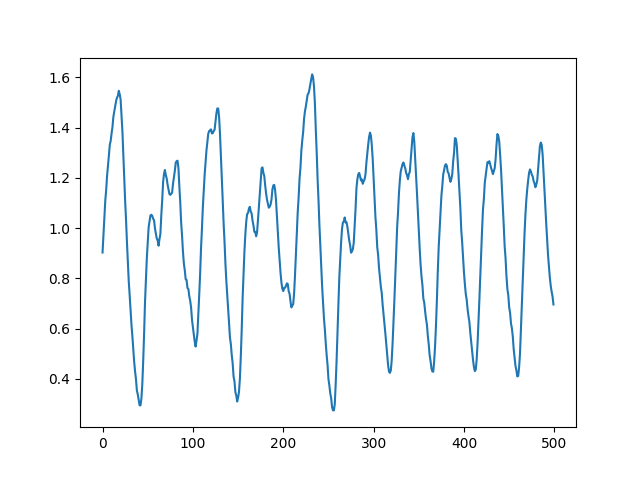
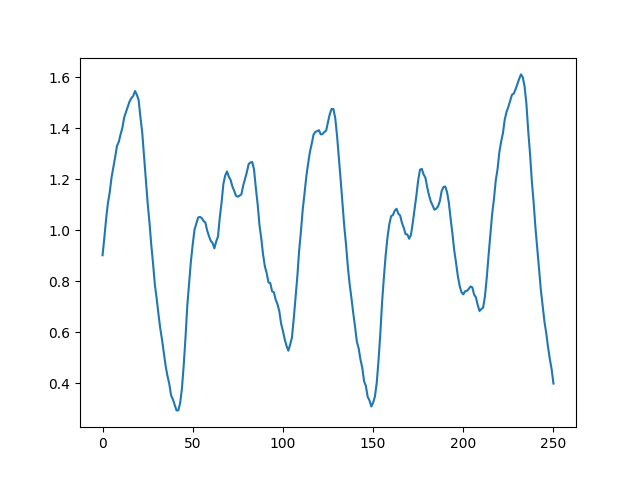
Ajout de plots normalisés et autres ameliorations

diff --git a/custom/forceNetworkMulti.py b/custom/forceNetworkMulti.py
@@ -55,6 +55,7 @@ class forceNetworkMulti(Network):
         min = kwargs.get("min", {})
         max = kwargs.get("max", {})
         k = kwargs.get("k",  {})
+        nbInput = kwargs.get("nbInput", {})
         print(k)
         plotValues = []
 
@@ -65,7 +66,7 @@ class forceNetworkMulti(Network):
         eta = 0.2
         maxWOut = max/(0.1*nbNeur)
         minWOut = min/(0.1*nbNeur)
-        traceDecay = 5
+        traceDecay = 4
         wOut = torch.ones(nbNeur) 
         #print(inputs["F"])
          
@@ -223,7 +224,6 @@ class forceNetworkMulti(Network):
                     else: 
                         traces[t][i] = np.exp((-1 *((t - baseTrace[i])) / traceDecay))
                         if s.item() == True:
-                            print("incr")
                             baseTrace[i] = t
                             traces[t][i] = traces[t][i]  + incr
                             #traces[t][i] =  incr
@@ -245,24 +245,24 @@ class forceNetworkMulti(Network):
             error = float((decoData[t] - pred ))#torch.mean(wOut)
             totalError += (error ** 2)
             tmpT += 1
-            print("Prévision = " + str(pred)) 
-            print("MSE = " + str(error ** 2))
-            print("Value = " + str(decoData[t]))
-            print("Moyenne Error = " + str(totalError/(tmpT)))
+            #print("Prévision = " + str(pred)) 
+            #print("MSE = " + str(error ** 2))
+            #print("Value = " + str(decoData[t]))
+            #print("Moyenne Error = " + str(totalError/(tmpT)))
             #print(traces[t])
             if t != 0:
                wOut = wOut - error *  QT @ torch.t(torch.Tensor(traces[t]))
             if t % 1000 == 0:
                 totalError = 0
                 tmpT = 0
-            print(inputs["F"].shape)
+            #print(inputs["F"].shape)
             for i in range(k):
                 if t - i < 0:
-                    tmp = torch.zeros(30)
+                    tmp = torch.zeros(nbInput)
                 else:
-                    tmp = torch.Tensor(encodingOneValue(decoData[t-i], max, min, 30, 1))
-                for j in range(30):
-                    inputs["F"][t][0][j + i * 30] = tmp[j]
+                    tmp = torch.Tensor(encodingOneValue(decoData[t-i], max, min, nbInput, 1))
+                for j in range(nbInput):
+                    inputs["F"][t][0][j + i * nbInput] = tmp[j]
 
         # Re-normalize connections.
         for c in self.connections:
@@ -279,8 +279,12 @@ class forceNetworkMulti(Network):
         ax.plot(t, s)
         fig.savefig("plotDeco.png")
         
-        s = torch.nn.functional.normalize(torch.Tensor(plotValues), p=2, dim = 0)
-        s2 = torch.nn.functional.normalize(torch.Tensor(decoData[:time]), p=2, dim = 0)
+        norm = np.linalg.norm(plotValues)
+        norm2 = np.linalg.norm(decoData[:time])
+        s = plotValues/norm
+        s2 = decoData[:time]/norm2
+        #s = torch.nn.functional.normalize(torch.Tensor(plotValues), p=2, dim = 0)
+        #s2 = torch.nn.functional.normalize(torch.Tensor(decoData[:time]), p=2, dim = 0)
         fig, ax = plt.subplots()
         ax.plot(t, s2)
         ax.plot(t, s)

diff --git a/testShapeMultiInput.py b/testShapeMultiInput.py
@@ -14,16 +14,18 @@ import pickle
 mfFeed = 2
 mfInp = 0.5
 k = 10
-time = 500
+time = 251
+nbInput = 30
+
 max = 2
 min = 0
 
 network = forceNetworkMulti(dt=1)  # Instantiates network.
 
-X = nodes.Input(30, traces=True)  # Input layer.
-Y = nodes.LIFNodes(12000, traces=True,  tc_decay = 100, tc_trace = 5)  # Layer of LIF neurons. 
-Z = nodes.LIFNodes(9800)  # Layer of LIF neurons.
-F = nodes.Input(k * 30,  traces=True)  # Input layer.
+X = nodes.Input(nbInput, traces=True)  # Input layer.
+Y = nodes.LIFNodes(6000, traces=True,  tc_decay = 100, tc_trace = 5)  # Layer of LIF neurons. 
+Z = nodes.LIFNodes(4800)  # Layer of LIF neurons.
+F = nodes.Input(k * nbInput,  traces=True)  # Input layer.
 
 
 tabTensor = torch.full((X.n, Y.n), 0.01)
@@ -38,9 +40,9 @@ C6 = topology.Connection(source=F, target=Y, w=wFeed)  # Connection from X to Y.
 tabTensor = torch.full((Y.n, Y.n), 0.01)
 
 C2 = topology.Connection(source=Y, target=Y, w=torch.bernoulli(tabTensor)* torch.rand((Y.n, Y.n)))  # Connection from X to Y.
-tabTensor = torch.full((Y.n, Z.n), 0.01)
+tabTensor = torch.full((Y.n, Z.n), 0.1)
 C3 = topology.Connection(source=Y, target=Z, w=torch.bernoulli(tabTensor)* torch.rand((Y.n, Z.n)))
-tabTensor = torch.full((Z.n, Y.n), 0.01)
+tabTensor = torch.full((Z.n, Y.n), 0.2)
 C4 = topology.Connection(source=Z, target=Y, w= -torch.bernoulli(tabTensor) * torch.rand((Z.n, Y.n))) 
 tabTensor = torch.full((Z.n, Z.n), 0.01)
 C5 = topology.Connection(source=Z, target=Z, w= -  torch.bernoulli(tabTensor) * torch.rand((Z.n, Z.n)))  # Connection from X to Y.
@@ -97,11 +99,11 @@ for i in range(time):
 data = torch.Tensor(data)
 print(len(data))
 
-void = torch.zeros(time , k*30)
+void = torch.zeros(time , k*nbInput)
 print(void.shape)
 # Simulate network on generated spike trains.
 inputs = {'X' : data, 'F' : void}  # Create inputs mapping.
-network.run(inputs=inputs, time=time, progress_bar = True, deco = decoDataset[0], min = min, max = max, k = k)  # Run network simulation.
+network.run(inputs=inputs, time=time, progress_bar = True, deco = decoDataset[0], min = min, max = max, k = k, nbInput = nbInput)  # Run network simulation.
 # Plot spikes of input and output layers.
 spikes = {'X' : M1.get('s'), 'Y' : M2.get('s'), 'Z' : M4.get('s')}
 spikesY = spikes['Y']
